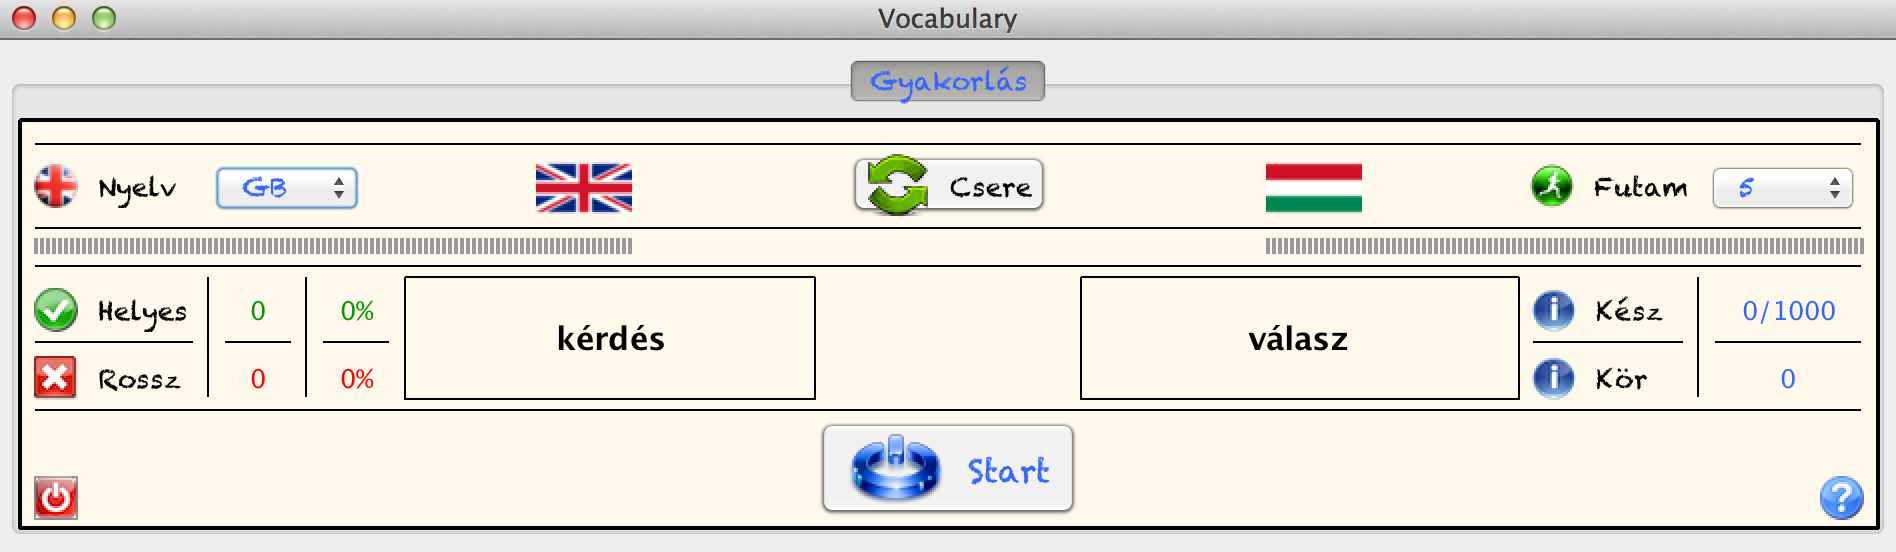
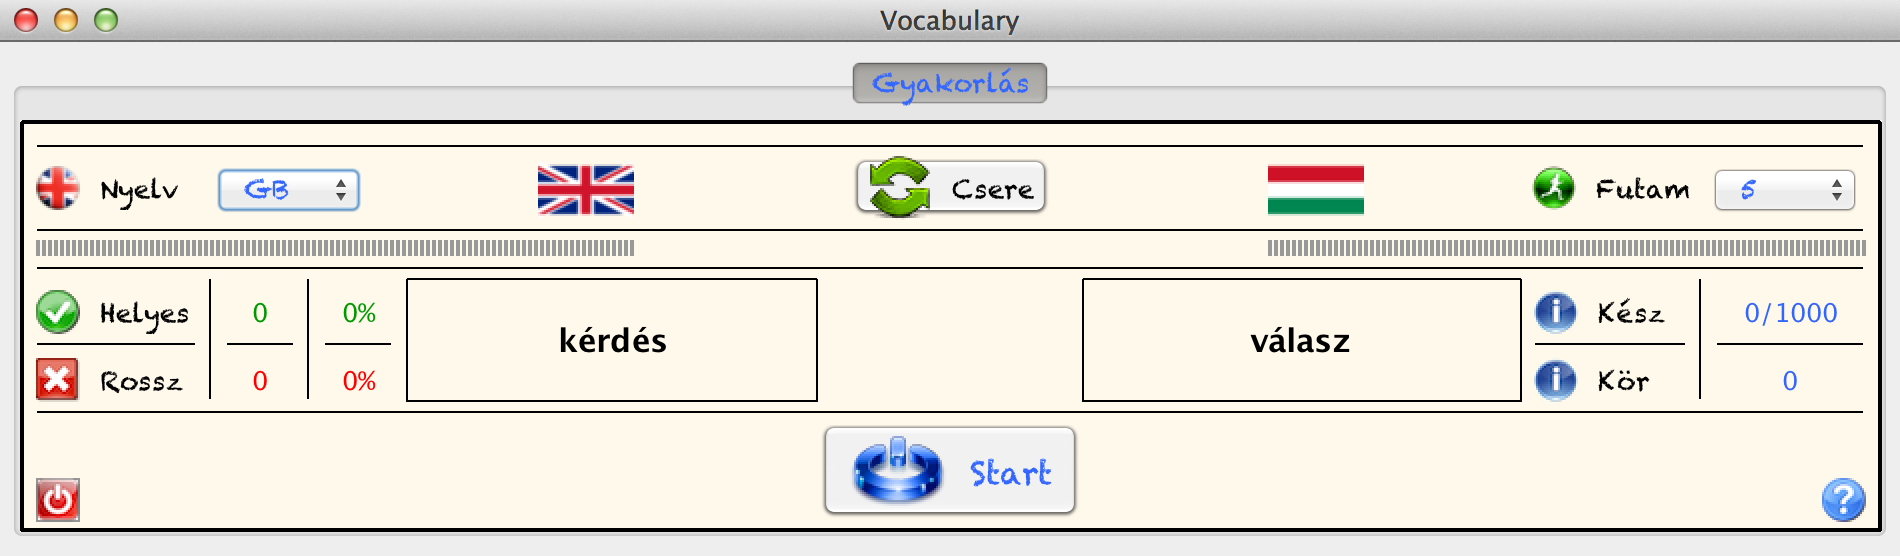
setLocationRelativeTo(..) in generated code set in JFrame -> Properties/Code add Splash.png

diff --git a/view/src/main/java/hu/gaborkolozsy/view/Vocabulary.java b/view/src/main/java/hu/gaborkolozsy/view/Vocabulary.java
@@ -20,7 +20,6 @@ import hu.gaborkolozsy.view.abstractClasses.ext.Star5;
 import hu.gaborkolozsy.view.abstractClasses.ext.Star6;
 import java.awt.Color;
 import java.awt.Desktop;
-import java.awt.Dimension;
 import java.awt.event.KeyEvent;
 import java.awt.event.KeyListener;
 import java.awt.event.MouseAdapter;
@@ -241,8 +240,6 @@ public class Vocabulary extends JFrame {
      */
     public Vocabulary() {
         initComponents();
-        setLocationRelativeTo(null);
-        setMaximumSize(new Dimension(1000, 280)); // ???
         
         if (System.getProperty("os.name").startsWith("Win")) {
             setResizable(false);
@@ -584,6 +581,7 @@ public class Vocabulary extends JFrame {
 
         setDefaultCloseOperation(javax.swing.WindowConstants.EXIT_ON_CLOSE);
         setTitle("Vocabulary");
+        setMaximumSize(new java.awt.Dimension(1000, 280));
         setMinimumSize(new java.awt.Dimension(900, 280));
 
         TabbedPane.setBackground(new java.awt.Color(255, 249, 236));
@@ -3561,6 +3559,7 @@ public class Vocabulary extends JFrame {
         );
 
         pack();
+        setLocationRelativeTo(null);
     }// </editor-fold>//GEN-END:initComponents
 
     /**
@@ -4776,9 +4775,15 @@ public class Vocabulary extends JFrame {
         }//</editor-fold>
         
         /**
-         * Create and display the form.
+         * First show splash and than create and display the form.
          */
         java.awt.EventQueue.invokeLater(() -> {
+            try {
+                Thread.sleep(3000); // for splash
+            } catch (InterruptedException ex) {
+                JOptionPane.showMessageDialog(null, ex.getMessage(), "Error", 
+                    JOptionPane.PLAIN_MESSAGE);
+            }
             new Vocabulary().setVisible(true);
         });
         
